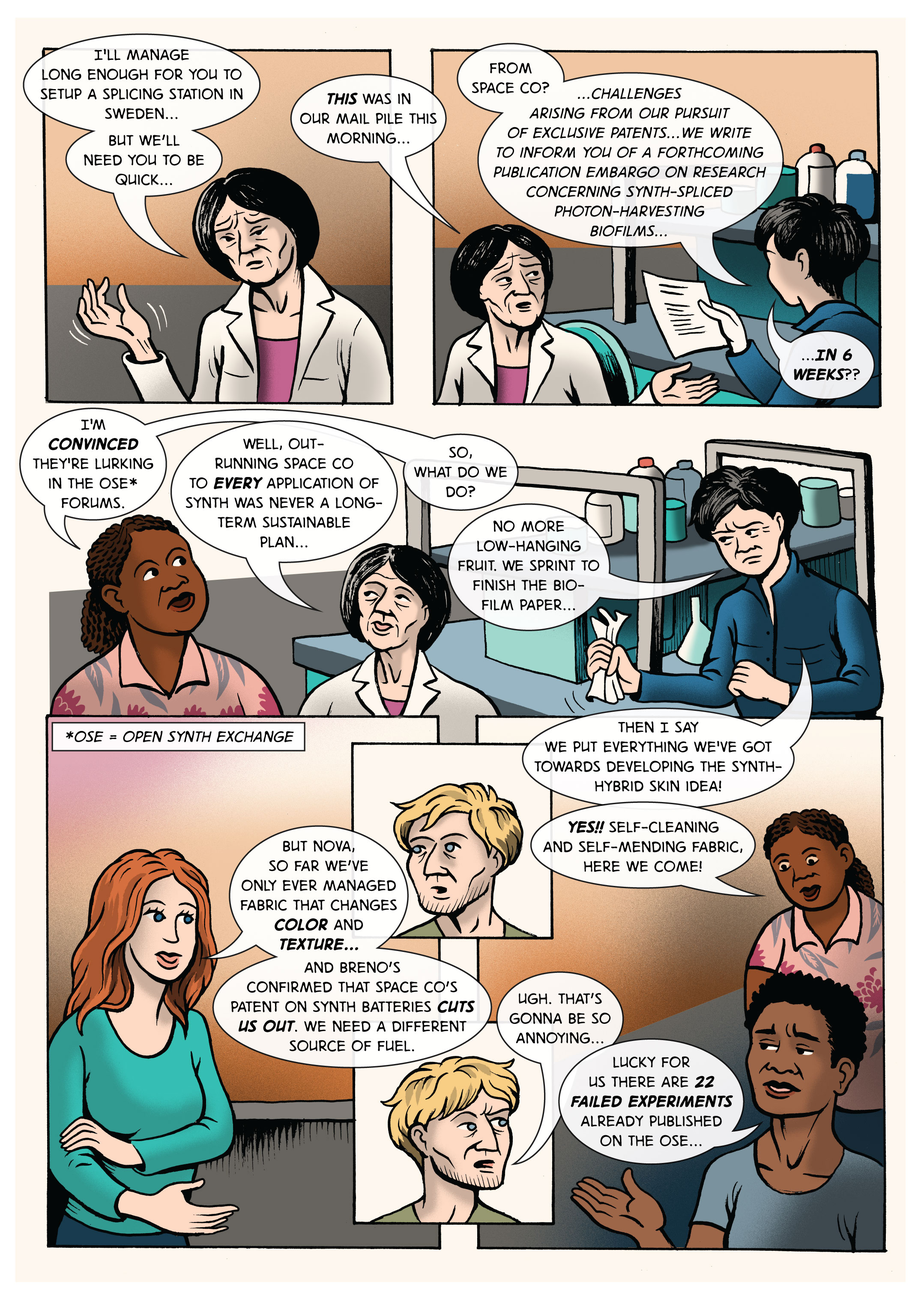
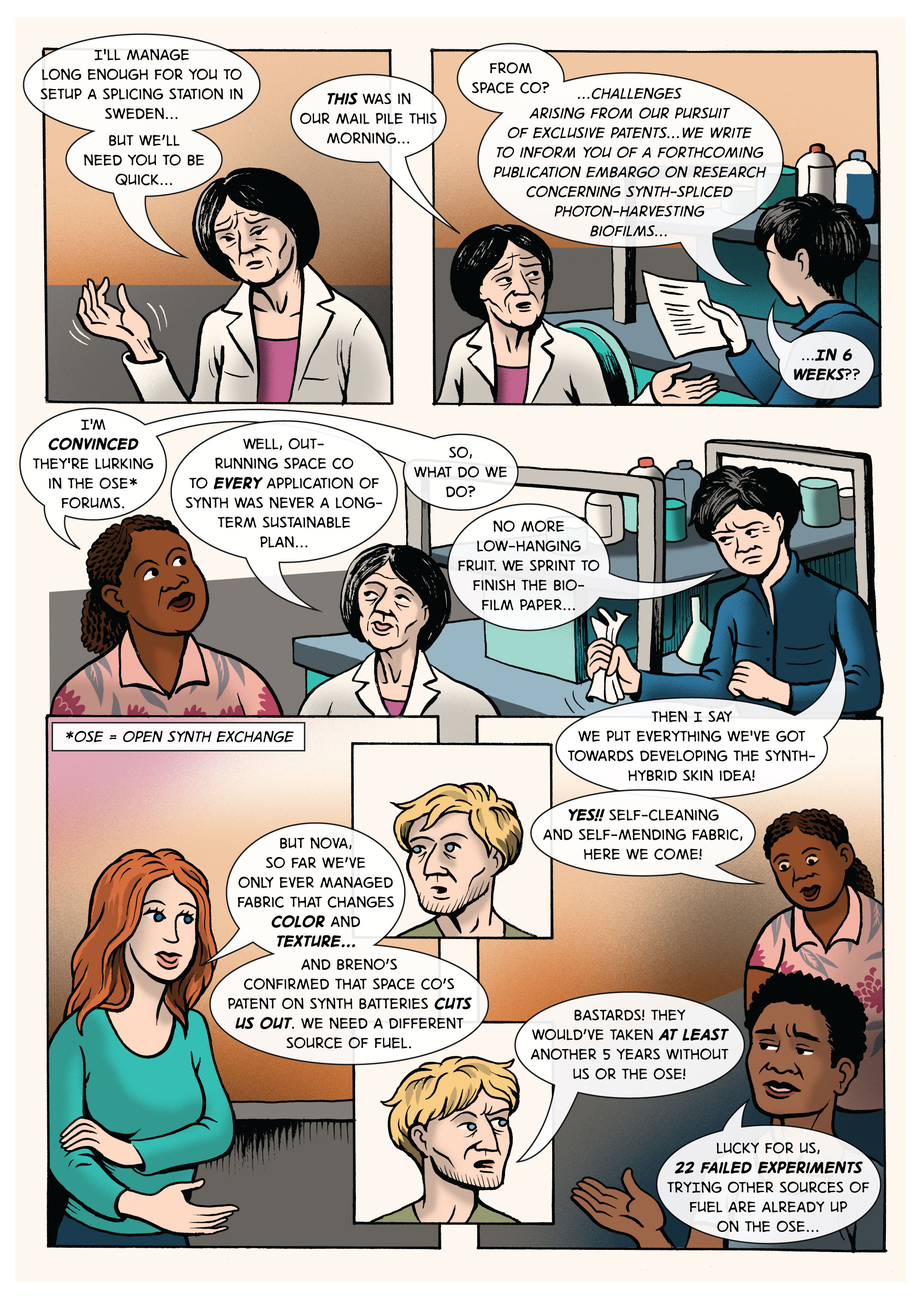
updates to ch1 teaser

Changed region(s): [[0.2181, 0.6192, 0.966, 0.9598], [0.5609, 0.4954, 0.9349, 0.7121]]

diff --git a/_open-lab-notebook/09-the-first-VIRS-ch01-teaser-16.md b/_open-lab-notebook/09-the-first-VIRS-ch01-teaser-16.md
@@ -22,33 +22,33 @@ alt="Chapter 1, page 14" caption="Art and Lettering by Danbee Kim." %}
 
 ## Annotations
 
-**"Information recovered from [magnetic storage tapes](https://www.bloomberg.com/news/articles/2018-10-17/the-future-of-the-cloud-depends-on-magnetic-tape){:target="_blank"} at [Iron Mountain](https://en.wikipedia.org/wiki/Iron_Mountain_(company)){:target="_blank"} Archeological Site 2095-007..."**
-
 ### Major Glial Cell Types
 
-A.k.a. ["neuroglia" or "glial cells"](https://en.wikipedia.org/wiki/Glia){:target="_blank"}, these non-neuronal cells of the nervous system have **four main functions**: 
+A.k.a. ["neuroglia" or "glial cells"](https://en.wikipedia.org/wiki/Glia), these cells of the nervous system have **four main functions**: 
 * surround neurons and hold them in place
 * supply nutrients and oxygen to neurons 
 * electrically insulate neurons from each other
 * destroy germs and remove dead neurons
 
--- [Macroglia](https://en.wikipedia.org/wiki/Glia#Macroglia){:target="_blank"} of the [Peripheral Nervous System (PNS)](https://en.wikipedia.org/wiki/Peripheral_nervous_system){:target="_blank"} --
+-- [Macroglia](https://en.wikipedia.org/wiki/Glia#Macroglia) of the [Peripheral Nervous System (PNS)](https://en.wikipedia.org/wiki/Peripheral_nervous_system) --
 
-[**Schwann cells**](https://en.wikipedia.org/wiki/Schwann_cell){:target="_blank"} provide [myelin sheaths](https://en.wikipedia.org/wiki/Myelin){:target="_blank"} (which make action potentials go faster and farther) to neurons in the PNS, eat germs, and clear cellular debris to help PNS neurons regrow. 
+[**Schwann cells**](https://en.wikipedia.org/wiki/Schwann_cell) provide [myelin sheaths](https://en.wikipedia.org/wiki/Myelin) (which make action potentials go faster and farther) to neurons in the PNS, eat germs, and clear cellular debris to help PNS neurons regrow. 
 
-[**Satellite cells**](https://en.wikipedia.org/wiki/Satellite_glial_cell){:target="_blank"} surround neurons in [sensory](https://en.wikipedia.org/wiki/Dorsal_root_ganglion){:target="_blank"}, [sympathetic](https://en.wikipedia.org/wiki/Sympathetic_ganglion){:target="_blank"}, and [parasympathetic ganglia](https://en.wikipedia.org/wiki/Parasympathetic_ganglion){:target="_blank"}; are interconnected by [gap junctions](https://en.wikipedia.org/wiki/Gap_junction){:target="_blank"}; and are highly sensitive to [inflammation](https://en.wikipedia.org/wiki/Inflammation){:target="_blank"} and pain. 
+[**Satellite cells**](https://en.wikipedia.org/wiki/Satellite_glial_cell) surround neurons in [sensory](https://en.wikipedia.org/wiki/Dorsal_root_ganglion), [sympathetic](https://en.wikipedia.org/wiki/Sympathetic_ganglion), and [parasympathetic ganglia](https://en.wikipedia.org/wiki/Parasympathetic_ganglion); are interconnected by [gap junctions](https://en.wikipedia.org/wiki/Gap_junction); and are highly sensitive to [inflammation](https://en.wikipedia.org/wiki/Inflammation) and pain. 
 
--- Macroglia of the [Central Nervous System (CNS)](https://en.wikipedia.org/wiki/Central_nervous_system){:target="_blank"} -- 
+-- Macroglia of the [Central Nervous System (CNS)](https://en.wikipedia.org/wiki/Central_nervous_system) -- 
 
-[**Oligodendrocytes**](https://en.wikipedia.org/wiki/Oligodendrocyte){:target="_blank"} coat the axons of neurons in the CNS with their cell membranes to form myelin sheaths; a single oligodendrocyte can serve up to 50 axons. 
+[**Astrocytes**](https://en.wikipedia.org/wiki/Astrocyte) (or astroglia) are the most abundant macroglia in the CNS. They remove excess potassium ions (K+) from around neurons; link neurons to a blood supply while helping form the blood-brain barrier; recycle neurotransmitters released during synaptic transmission; and signal to each other using [glutamate](https://en.wikipedia.org/wiki/Glutamate_(neurotransmitter)), [GABA](https://en.wikipedia.org/wiki/Gamma-Aminobutyric_acid), and [adenosine tri-phosphate (ATP, a molecule used for energy by all living cells)](https://en.wikipedia.org/wiki/Adenosine_triphosphate). 
 
-[**Astrocytes**](https://en.wikipedia.org/wiki/Astrocyte){:target="_blank"} (or astroglia) are the most abundant macroglia in the CNS. They remove excess potassium ions (K+) from around neurons; link neurons to a blood supply while helping form the blood-brain barrier; recycle neurotransmitters released during synaptic transmission; and signal to each other using [glutamate](https://en.wikipedia.org/wiki/Glutamate_(neurotransmitter)){:target="_blank"}, [GABA](https://en.wikipedia.org/wiki/Gamma-Aminobutyric_acid){:target="_blank"}, and [adenosine tri-phosphate (ATP, a molecule used for energy by all living cells)](https://en.wikipedia.org/wiki/Adenosine_triphosphate){:target="_blank"}. 
+[**Ependymal cells**](https://en.wikipedia.org/wiki/Ependyma) (or ependymocytes) line the spinal cord and the [ventricular system](https://en.wikipedia.org/wiki/Ventricular_system) of the brain to create the [ependyma](https://en.wikipedia.org/wiki/Ependyma), a part of the [blood-CSF barrier](https://en.wikipedia.org/wiki/Choroid_plexus#Blood%E2%80%93cerebrospinal_fluid_barrier). They are involved in creating, secreting, and circulating [cerebro-spinal fluid (CSF)](https://en.wikipedia.org/wiki/Cerebrospinal_fluid). 
 
-[**Ependymal cells**](https://en.wikipedia.org/wiki/Ependyma){:target="_blank"} (or ependymocytes) line the spinal cord and the [ventricular system](https://en.wikipedia.org/wiki/Ventricular_system){:target="_blank"} of the brain to create the [ependyma](https://en.wikipedia.org/wiki/Ependyma){:target="_blank"}, a part of the [blood-CSF barrier](https://en.wikipedia.org/wiki/Choroid_plexus#Blood%E2%80%93cerebrospinal_fluid_barrier){:target="_blank"}. They are involved in creating, secreting, and circulating [cerebro-spinal fluid (CSF)](https://en.wikipedia.org/wiki/Cerebrospinal_fluid){:target="_blank"}. 
+[**Oligodendrocytes**](https://en.wikipedia.org/wiki/Oligodendrocyte) coat the axons of neurons in the CNS with their cell membranes to form myelin sheaths; a single oligodendrocyte can serve up to 50 axons. 
 
 -- Microglia -- 
 
-[**Microglia**](https://en.wikipedia.org/wiki/Microglia){:target="_blank"} are much smaller than macroglia and can change shape in order to move around the entire nervous system. They multiply when the brain is damaged, and constantly sample their environment in order to direct [immune system](https://en.wikipedia.org/wiki/Immune_system){:target="_blank"} responses to damage or danger in the nervous system. 
+[**Microglia**](https://en.wikipedia.org/wiki/Microglia) are much smaller than macroglia and can change shape in order to move around the entire nervous system. They multiply when the brain is damaged, and constantly sample their environment in order to direct [immune system](https://en.wikipedia.org/wiki/Immune_system) responses to damage or danger in the nervous system. 
+
+### Learn More
 
 To learn more about this graphic novel, please visit [www.danbeekim.org/VIRS](/VIRS){:target="_blank"}
 

diff --git a/_open-lab-notebook/09-the-first-VIRS-ch01-teaser-08.md b/_open-lab-notebook/09-the-first-VIRS-ch01-teaser-08.md
@@ -24,13 +24,13 @@ alt="Chapter 1, page 6" caption="Art by Matteo Farinella, Lettering by Danbee Ki
 
 Majhee, Felix, and other members of Majhee's research group sit or stand in a cluster at one end of their lab benches in an upper floor of the research institute. The wall nearest to them is a floor-to-ceiling window, showing the dusty sky-line of São Paulo. The sun sits in a reddish hazy sky, just past the midday zenith. 
 
-The circle of researchers: **Felix Grael**, a pale but handsome man in his late 20s, raised in Rio de Janeiro by Swedish immigrants who have since returned to Europe, his face lined with fear and sadness, head in hands as his elbows rest on his knees; **Kai Oliveira**, a much older woman of Japanese-Portuguese descent, grey-haired and hook-nosed, stern-faced and sitting stiffly in her chair; **Beatriz Cavalcanti**, a tall woman in her 30s, a Brazilian of Italian descent, mouth set in a grim line even as her hands squeeze Felix's shoulders in a motherly, comforting gesture; **Breno Leite**, a dark, thin man in his early 30s, born and raised in the streets of São Paulo by his young Brazilian single mother, who worked every day of her life before falling ill in order to send her son to university; **Nova Jatobá**, a young graduate student in her mid-20s, descended from indiginous Brazilians from deeper inland, her plump face lined with exhaustion; **Iara Gracie**, another young grad student in her mid-20s, who was born into an [old Brazilian martial arts family](https://en.wikipedia.org/wiki/Gracie_family){:target="_blank"} but chose the life of a scientist instead; **Vec Barbosa**, a portly Brazilian man of West African descent in his 40s, hands resignedly folded over a substantial beer belly, face troubled and sad behind a rather bushy yet neatly-trimmed beard.
+The circle of researchers: **Felix Grael**, a pale but handsome man in his late 20s, raised in Rio de Janeiro by Swedish immigrants who have since returned to Europe, his face lined with fear and sadness, head in hands as his elbows rest on his knees; **Kai Oliveira**, a much older woman of Japanese-Portuguese descent, grey-haired and hook-nosed, stern-faced and sitting stiffly in her chair; **Beatriz Cavalcanti**, a tall woman in her 30s, a Brazilian of Italian descent, mouth set in a grim line even as her hands squeeze Felix's shoulders in a motherly, comforting gesture; **Breno Leite**, a dark, thin man in his early 30s, born and raised in the streets of São Paulo by his young Brazilian single mother, who worked every day of her life before falling ill in order to send her son to university; **Nova Jatobá**, a young graduate student in her mid-20s, descended from indiginous Brazilians from deeper inland, her plump face lined with exhaustion; **Iara Gracie**, another young grad student in her mid-20s, who was born into an [old Brazilian martial arts family](https://en.wikipedia.org/wiki/Gracie_family) but chose the life of a scientist instead; **Vec Barbosa**, a portly Brazilian man of West African descent in his 40s, hands resignedly folded over a substantial beer belly, face troubled and sad behind a rather bushy yet neatly-trimmed beard.
 
 Beatriz: **"So...it's back?"**
 
-Felix, defeated: **"Yes...they think it was the [liver transplant](https://skincancer.ucsf.edu/transplant-patients){:target="_blank"}..."**
+Felix, defeated: **"Yes...they think it was the [liver transplant](https://skincancer.ucsf.edu/transplant-patients)..."**
 
-Beatriz, gently: **"Do you want to go home? The lab can cover your flight..."**
+Beatriz, gently: **"Felxi, do you want to go home? We could cover your flight..."**
 
 Felix: **"Are you sure?"**
 
@@ -42,11 +42,13 @@ Felix: **"Thanks...I know my mom will really appreciate having me at home..."**
 
 Suddenly Felix screws up his face with anger and frustration. 
 
-Felix: **"But...we're so close--"**
+Felix: **"But...Bea, we're so close--"**
 
 Beatriz: **"Hey, family comes first, and that's ok."**
 
 Felix: **"But Kai's hands--"**
+
+### Learn More
 
 To learn more about this graphic novel, please visit [www.danbeekim.org/VIRS](/VIRS){:target="_blank"}
 

diff --git a/_open-lab-notebook/09-the-first-VIRS-ch01-teaser-04.md b/_open-lab-notebook/09-the-first-VIRS-ch01-teaser-04.md
@@ -28,13 +28,13 @@ We see Majhee walking briskly through the crowded streets of São Paulo. Everyon
 
 A lot of the news is about the new space arboretum, but most of the individual bubbles are focused on news about planetside climate disasters: 
 
-**"...[the Colorado River has *dried up completely*](https://www.smithsonianmag.com/science-nature/the-colorado-river-runs-dry-61427169/){:target="_blank"} and many are migrating east to escape the *severe drought*..."**
+**"...[the Colorado River has *dried up completely*](https://www.smithsonianmag.com/science-nature/the-colorado-river-runs-dry-61427169/) and many are migrating east to escape the *severe drought*..."**
 
-**"...aggressive *water-borne disease* has placed [most of northeast India under *quarantine*](https://www.ncbi.nlm.nih.gov/pmc/articles/PMC1151007/){:target="_blank"}"**
+**"...aggressive *water-borne disease* has placed [most of northeast India under *quarantine*](https://www.ncbi.nlm.nih.gov/pmc/articles/PMC1151007/)..."**
 
-**"...[*total evaporation* of the River Niger](https://www.vanguardngr.com/2016/05/river-niger-drying-fg-raises-alarm/){:target="_blank"} has led to *massive lootings* at yet another hydropower station..."**
+**"...[*total evaporation* of the River Niger](https://www.vanguardngr.com/2016/05/river-niger-drying-fg-raises-alarm/) has led to *massive lootings* at yet another hydropower station..."**
 
-**"...[*hundred times* more likely to be diagnosed](http://www.who.int/uv/faq/skincancer/en/index1.html){:target="_blank"} with illnesses caused by *sun radiation* than even just ten years ago..."**
+**"...[*hundred times* more likely to be diagnosed](http://www.who.int/uv/faq/skincancer/en/index1.html) with illnesses caused by *sun radiation* than even just ten years ago..."**
 
 We see Majhee walk past a large research facility, metal and glass architecture dully gleaming in the smoggy light, labeled "Laboratório Nacional de Biociências e Saúde Pública". 
 
@@ -42,13 +42,13 @@ We see Majhee walk past a large research facility, metal and glass architecture 
 
 The front of the research facility is teeming with protesters, who chant "Não sirva aos tiranos em órbita!" and "Educar crianças humanas, não máquinas corporativas!"
 
-*translation: "Don't serve the tyrants in orbit!", "Educate human children, not corporate machines!"*
-
-**"...fifth day of violent demonstrations at the Laboratório Nacional de Biociências e Saúde Pública protesting the public research institution's collaboration with Space Consortium..."**
+**"...fifth day of *violent* demonstrations at the Laboratório Nacional de Biociências e Saúde Pública protesting the public research institution's *collaboration* with Space Consortium..."**
 
 Majhee sneaks into an alleyway to enter the research facility via a back door. 
 
-**"...last week the space exploration conglomerate announced the first ever patent on a device made with synaptic thread technology, commonly known as SynTh..."**
+**"...who recently announced the first ever *patent* on a device made with the *traditionally open source* synaptic thread technology, commonly known as SynTh..."**
+
+### Learn More
 
 To learn more about this graphic novel, please visit [www.danbeekim.org/VIRS](/VIRS){:target="_blank"}
 

diff --git a/_open-lab-notebook/09-the-first-VIRS-ch01-teaser-02.md b/_open-lab-notebook/09-the-first-VIRS-ch01-teaser-02.md
@@ -23,44 +23,37 @@ alt="Chapter 1 Cast" caption="Art by Matteo Farinella, Lettering by Danbee Kim."
 ## Annotations
 
 **Majhee Suh**:  
-[Organometallic Chemist](https://en.wikipedia.org/wiki/Organometallic_chemistry){:target="_blank"}  
-PhD thesis: "Cultivating [Electrophoretic](https://en.wikipedia.org/wiki/Electrophoresis){:target="_blank"} [Mycelium](https://en.wikipedia.org/wiki/Mycelium){:target="_blank"} [Yeast](https://en.wikipedia.org/wiki/Yeast){:target="_blank"} to fabricate living organic semiconductors"
+[Organometallic Chemist](https://en.wikipedia.org/wiki/Organometallic_chemistry)  
+PhD thesis: "Cultivating [Electrophoretic](https://en.wikipedia.org/wiki/Electrophoresis) [Mycelium](https://en.wikipedia.org/wiki/Mycelium) [Yeast](https://en.wikipedia.org/wiki/Yeast) to fabricate living organic semiconductors"
 
 **Iúna Morei**:  
-CEO of Morei Textiles  
-Codename "Mama Bird"  
+CEO of Morei Textiles, Codename "Mama Bird"  
 
 **Kai Oliveira**:  
-Bio-materials Scientist  
-PhD thesis: "Methods for genetically modifying bacterial colonies to build [Bio-Silicate](https://en.wikipedia.org/wiki/Silicate){:target="_blank"} interfaces"  
+Bio-materials Scientist, ramen connoisseur, and operatic metal enthusiast
 
 **Vec Barbosa**:  
 Animal technician, Veterinarian, and SCUBA diving instructor  
 
 **Beatriz Cavalcanti**:  
-Laboratory Manager  
-PhD thesis: "Ecophysiological responses to [ocean acidification](https://en.wikipedia.org/wiki/Ocean_acidification){:target="_blank"} in coastal ecosystems"  
+Laboratory Manager, Marine Ecologist, and avid seabird watcher
 
 **Nova Jatobá**:  
-Research Assistant  
-B.Sc. in Nutrition and Information Management  
+Research Assistant, B.Sc. in Nutrition, and cryptocurrency hobbyist
 
 **Marcia Netto**:  
 President and Director of Laboratório Nacional de Biociências e Saúde Pública  
 
 **Iara Gracie**:  
-Research Assistant  
-B.Sc. in Animal Husbandry  
-Red/White belt in [Brazilian Jiu-Jitsu](https://en.wikipedia.org/wiki/Brazilian_jiu-jitsu){:target="_blank"}  
+Research Assistant, B.Sc. in Animal Husbandry, and red/white belt in [Brazilian Jiu-Jitsu](https://en.wikipedia.org/wiki/Brazilian_jiu-jitsu)  
 
 **Felix Grael**:  
-Research Technician  
-B.Sc. in Biophysics  
-Home-brewed beer enthusiast  
+Research Technician, B.Sc. in Biophysics, and home-brewed beer enthusiast  
 
 **Breno Leite**:  
-Physiologist and Geneticist  
-PhD thesis: "Human [transcriptomic](https://en.wikipedia.org/wiki/Transcriptome){:target="_blank"} responses to daily movement practice"
+Developmental Physiologist, Geneticist, and capoeirista
+
+### Learn More
 
 To learn more about this graphic novel, please visit [www.danbeekim.org/VIRS](/VIRS){:target="_blank"}
 

diff --git a/_open-lab-notebook/09-the-first-VIRS-ch01-teaser-05.md b/_open-lab-notebook/09-the-first-VIRS-ch01-teaser-05.md
@@ -24,13 +24,15 @@ alt="Chapter 1, page 3" caption="Art by Matteo Farinella, Lettering by Danbee Ki
 
 Inside the research institute, we see a receptionist sitting behind a sealed glass window. Next to him is a decontamination chamber that all must pass thru in order to enter the research facility. 
 
-**"...Space Co's actions have been publicly condemned by many researchers affiliated with the LNBSP, including Dr. Majhee Suh, who was the first to cultivate stable thread-worms capable of spinning SynTh..."**
+**"...Space Consortium's actions have been publicly condemned by many researchers affiliated with the LNBSP..."**
 
 *LNBSP = Laboratório Nacional de Biociências e Saúde Pública*
 
+**"...including Dr. Majhee Suh, who was the first to cultivate stable thread-worms capable of spinning SynTh..."**
+
 Majhee: **"Mornin', Paulo!"**
 
-Paulo: **"Majhee! How's your head??"**
+Paulo: **"Majhee! How's your head?"**
 
 Majhee takes off her hood and googles - she is pretty and youthful for her 37 years, if it weren't for the many lines of worry and grim determination on her face. She shakes out her hair, cropped short in a bowl pixie cut. Clearly having many troubling thoughts, she begins taking off her SynTh hazmat suit.  
 
@@ -38,17 +40,21 @@ Majhee: **"Not great, but I'll live..."**
 
 Paulo: **"Did you go to the hospital?"**
 
-Majhee: **"No, I can't afford it right now."**
+Majhee: **"No, it would have taken all night to see a doctor..."**
 
-Paulo: **"Doesn't the LNBSP give you health insurance?"**
+Paulo: **"Doesn't the LNBSP give you private health care?"**
 
-Majhee: **"Yes, but I'm not covered for injuries that occur 'off the work site'...and technically, I was outside the front gates when the oxygen tank hit me."**
+Majhee: **"Yes, but I'm not covered for injuries that occur off the work site...and technically, I was outside the front gates when the oxygen tank hit me."**
 
-Paulo: **"You're joking...what kinda messed up thinkin' is that??"**
+Paulo: **"*Seriously??* The SAMU should've just reported it as a worksite injury!"**
+
+*SAMU = Serviço de Atendimento Móvel de Urgência (Mobile Emergency Attendance Service)*
 
 Majhee removes her boots and steps into the decontamination chamber.
 
-Majhee: **"Yeah, well...everyone's hungry...can't think when you're hungry."**
+Majhee: **"Well...everyone's hungry...can't think when you're hungry."**
+
+### Learn More
 
 To learn more about this graphic novel, please visit [www.danbeekim.org/VIRS](/VIRS){:target="_blank"}
 

diff --git a/_open-lab-notebook/09-the-first-VIRS-ch01-teaser-09.md b/_open-lab-notebook/09-the-first-VIRS-ch01-teaser-09.md
@@ -24,13 +24,13 @@ alt="Chapter 1, page 7" caption="Art by Matteo Farinella, Lettering by Danbee Ki
 
 Kai looks down at her lap with hard eyes.
 
-Kai: **"I'll manage long enough for you to set up a splicing station in Sweden...but you'll have to make it quick..."**
+Kai: **"I'll manage long enough for you to set up a splicing station in Sweden...but we'll need you to be quick..."**
 
 Kai hands Majhee a letter covered in legal jargon. 
 
 Kai: **"*This* was in our mail pile this morning..."**
 
-Majhee: **"From Space Co? '...challenges arising from our pursuit of exclusive patents ... we write to inform you of a forthcoming publication embargo on research concerning SynTh-spliced [photon-harvesting biofilms](https://cen.acs.org/energy/solar-power/Organic-solar-cell-smashes-performance/96/web/2018/08){:target="_blank"}...*IN 6 WEEKS*'??"**
+Majhee: **"From Space Co? '...challenges arising from our pursuit of exclusive patents ... we write to inform you of a forthcoming publication embargo on research concerning SynTh-spliced [photon-harvesting biofilms](https://cen.acs.org/energy/solar-power/Organic-solar-cell-smashes-performance/96/web/2018/08)...*IN 6 WEEKS*'??"**
 
 Nova: **"I'm *convinced* they're lurking in the OSE forums."**
 
@@ -42,13 +42,15 @@ Nova: **"So what do we do?"**
 
 Majhee, angrily: **"No more low-hanging fruit. We sprint to finish the biofilm paper...then I say we put everything we've got towards developing the SynTh-hybrid skin idea!"**
 
-Nova: **"Yes. The past sprints were training...now, we run the marathon!"**
+Nova: **"*Yes!!* Self-cleaning and self-mending fabric, here we come!"**
 
-Iara: **"You talk like we just need to crunch some numbers! We still have *no idea* how to spin the SynTh into a structure that can emerge into a superorganism..."**
+Iara: **"But Nova, so far we've only ever managed fabric that changes color and texture...and Breno's confirmed that Space Co's patent on SynTh batteries *cuts us out*. We need a different source of fuel."**
 
-Felix: **"And the *ethical implications*..."**
+Felix: **"Bastards! They would've taken *at least* another 5 years without us or the OSE!"**
 
-Breno: **"That hasn't stopped the *22 failed experiments* already published on the OSE..."**
+Breno: **"Lucky for us, *22 failed experiments* trying other sources of fuel are already up on the OSE..."**
+
+### Learn More
 
 To learn more about this graphic novel, please visit [www.danbeekim.org/VIRS](/VIRS){:target="_blank"}
 

diff --git a/_open-lab-notebook/09-the-first-VIRS-ch01-teaser-01.md b/_open-lab-notebook/09-the-first-VIRS-ch01-teaser-01.md
@@ -24,9 +24,11 @@ title page" caption="Art by Xiao Xiao, Lettering by Danbee Kim." %}
 
 **"Loading Universal Record..."**
 
-**"Finished loading...'The Space Consortium Fights World Hunger'; [Classification: *Unclassified*](https://en.wikipedia.org/wiki/Classified_information#Typical_classification_levels){:target="_blank"}."**
+**"Finished loading...'The Space Consortium Fights World Hunger'; [Classification: *Unclassified*](https://en.wikipedia.org/wiki/Classified_information#Typical_classification_levels)."**
 
-**"In 2054, Space Consortium presented the United Nations with a proposal to collaborate with planetside farms and biodiversity sanctuaries (predecessors to the modern-day Green Havens) in order to conduct research into plants useful for space travel and permaculture in low gravity. In return for funding and logistical support from the UN, Space Consortium offered to use this research to help fight the global food shortage with food grown in space, and pledged half of the carrying capacity of its recently completed space elevator project, the Space Ferries, to guarantee reliable transport of resources back and forth between orbiting farms and planetside. Thus, Space Consortium played a major role in improving the quality of life on Earth before [The Global Water Crisis](https://www.bbc.co.uk/news/uk-47620228){:target="_blank"}..."**
+**"In 2054, Space Consortium began collaborating with planetside farms to advance research on space-tolerance in plants and insects. Space Consortium offered to use this research to help fight Earth's food shortage, and pledged half of the carrying capacity of its recently completed space elevator project, the Space Ferries, to guarantee reliable transport of resources between Earth and orbiting farms. Thus, Space Consortium played a major role in improving the quality of life on Earth before [The Global Water Crisis](https://www.bbc.co.uk/news/uk-47620228)..."**
+
+### Learn More
 
 To learn more about this graphic novel, please visit [www.danbeekim.org/VIRS](/VIRS){:target="_blank"}
 

diff --git a/_open-lab-notebook/09-the-first-VIRS-ch01-teaser-07.md b/_open-lab-notebook/09-the-first-VIRS-ch01-teaser-07.md
@@ -22,9 +22,7 @@ alt="Chapter 1, page 5" caption="Art by Matteo Farinella, Lettering by Danbee Ki
 
 ## Annotations
 
-Majhee angrily turns off the giant bacteria of light with an impatient gesture as she turns to Marcia, furious.
-
-Majhee: **"We work at the *biggest* research center in Brazil, and have *way* more privilege than most folks on the street, so if *we* can't stand up to unethical behaviour, who can??"**
+Majhee: **"Marcia, we work at the *biggest* research center in Brazil. If *we* can't stand up to unethical behaviour, who can??"**
 
 Marcia: **"Majhee, if Space Co can't work with us, they'll just go to some other institute. We don't *actually* have any leverage."**
 
@@ -32,17 +30,17 @@ Majhee looks away miserably.
 
 Majhee: **"Well...if the sponsors want me out, *fine*. I'm not taking back *anything* I've said against Space Co."**
 
-Marcia: **"To be honest, they can't seem to decide whether to hate you or love you. You're the youngest scientist in the world with *two* UN grants..."**
+Marcia: **"To be honest, they can't seem to decide whether to hate you or love you. You're the youngest scientist in the world with *two* U.N. grants..."**
 
 Majhee, dryly: **"Are you saying I have redeeming qualities in the eyes of our prestige- and money-hungry overlords?"**
 
-Marcia, hissing: **"Majhee! The walls...ears--!"**
-
 Felix, a scientist in Majhee's lab, appears at the doorway.
 
-Felix: **"Hi, sorry to interrupt...can we get Majhee please? Lab meeting was supposed to start an hour ago..."**
+Felix: **"Hi, sorry to interrupt...can we get Majhee please? Lab meeting was supposed to start an hour ago."**
 
 Majhee: **"I know, I'm sorry, I'm coming. Marcia, I'll give you a call later."**
+
+### Learn More
 
 To learn more about this graphic novel, please visit [www.danbeekim.org/VIRS](/VIRS){:target="_blank"}
 

diff --git a/_open-lab-notebook/09-the-first-VIRS-ch01-teaser-03.md b/_open-lab-notebook/09-the-first-VIRS-ch01-teaser-03.md
@@ -28,19 +28,21 @@ alt="Chapter 1, page 1" caption="Art by Matteo Farinella, Lettering by Danbee Ki
 
 **"It was a day of hope and wonder."** 
 
-**"The Space Consortium had just completed their third space farm, and the news feeds were drowning in videos of the glamorous ribbon-cutting event..."**
+**"Space Consortium had just completed their third space farm, and the news feeds were drowning in videos of the glamorous ribbon-cutting event..."**
 
 We see beautiful, important people draped in gorgeously fashionable and unspeakably expensive formal attire, made with synapic thread fabric programmed to fluidly change colours in response to the lights, the music, and their wearers' moods.
 
 **"...of the Orbiter home pods that synchronised their velocities with the new arboretum..."**
 
-In a viewing port of the Arboretum, we see a huge mass of gathered Orbiter home pods, floating in synchronised orbit next to the Arboretum.
+In the viewing port of the Arboretum, we see a huge mass of gathered Orbiter home pods, floating in synchronised orbit next to the Arboretum.
 
-**"...of delicate, mouth-watering hors d'oeuvres made from succulent crops grown at the two older space farms, in carefully filtered water and pristine soil..."**
+**"...and of the tiny, mouth-watering hors d'oeuvres made from succulent crops grown at the two older space farms, in carefully filtered water and pristine soil..."**
 
 **"...for the world was becoming too dirty, too extreme in its weather, to support industrial planetside farming..."**
 
 **"...and many people, on this historic day, were starving..."**
+
+### Learn More
 
 To learn more about this graphic novel, please visit [www.danbeekim.org/VIRS](/VIRS){:target="_blank"}
 

diff --git a/_open-lab-notebook/09-the-first-VIRS-ch01-teaser-10.md b/_open-lab-notebook/09-the-first-VIRS-ch01-teaser-10.md
@@ -24,25 +24,25 @@ alt="Chapter 1, page 8" caption="Art by Matteo Farinella, Lettering by Danbee Ki
 
 Majhee: **"Kai, Vec, Bea? What do you think?"**
 
-Kai: **"I say we start straight away! Felix and I will review the latest thread-worm recipe together-- tonight!"**
+Kai: **"Let's punch these corporate windbags in the teeth! I'll go start the kettle...gonna need *lots* of tea and ramen for this..."**
 
-Felix looks dazed already. 
-
-Vec: **"I'll help Nova update the OSE's [garlic protocols](https://en.wikipedia.org/wiki/Garlic_routing){:target="_blank"}"**
+Vec: **"I'll help Nova kick Space Co out of the OSE forums."**
 
 Beatriz: **"I'll get Felix his flight."**
 
-Iara: **"Breno and I will finish the [unit tests](https://en.wikipedia.org/wiki/Unit_testing){:target="_blank"}."**
+Iara: **"Breno and I can start reading the failed experiments. Majhee, wanna join us?"**
 
 Majhee quirks an eyebrow.
 
-Majhee: **"You're all amazing. Thank you for massively improving my terrible week."**
+Majhee: **"Sound great, Iara. Everyone...you're all *amazing*. Thank you for *massively* improving my terrible week."**
 
 We see now the protesters outside, their desperate, hungry faces. They hold signs and wave flags with slogans like "Não sirva aos tiranos em órbita!", "Educar crianças humanas, não máquinas corporativas!", and "Alimentar humanos não foguetes!" 
 
 *translation: "Do not serve tyrants in orbit!", "Educate human children, not coporate machines!", "Feed humans not rockets!"*
 
 Majhee: **"Now, 22 failures...that's quite a lot of information..."**
+
+### Learn More
 
 To learn more about this graphic novel, please visit [www.danbeekim.org/VIRS](/VIRS){:target="_blank"}
 

diff --git a/_open-lab-notebook/09-the-first-VIRS-ch01-teaser-13.md b/_open-lab-notebook/09-the-first-VIRS-ch01-teaser-13.md
@@ -26,15 +26,17 @@ Dr. Kauffmann: **"They're prepping for a huge wave of refugees."**
 
 Iúna: **"Really? From where?"** 
 
-Dr. Kauffmann: **"Los Angelos. A police raid last night turned into a fire that's spread halfway up the coast of California. It's so big it's blowing over the mountains into Arizona..."**
+Dr. Kauffmann: **"Los Angeles. A police raid last night turned into a fire that's spread halfway up the coast of California. It's so big it's blowing over the mountains into Arizona..."**
 
-Dr. Kauffmann: **"Apparently the targets panicked and tried to destroy the evidence...and the suburbs are just *filled* with [plastic furniture, which are basically *solid* petroleum](https://youtu.be/aDNPhq5ggoE){:target="_blank"}, and it all just hit a flash point...I'm sorry...do you know anyone over there?"**
+Dr. Kauffmann: **"Apparently the targets panicked and tried to destroy the evidence...and the suburbs are just *filled* with [plastic furniture, which are basically *solid* petroleum](https://youtu.be/aDNPhq5ggoE), and it all just hit a flash point...I'm sorry...do you know anyone over there?"**
 
 Iúna: **"Yes, I...I'm sorry, I need to make a call..."**
 
 Dr. Kauffmann: **"Of course. We'll see ourselves out."**
 
 Under this dialogue we see close-up views of the baby strapped to Iúna's front. The child is a little less than one year old. The strapping is an intricately folded piece of SynTh cloth that can amplify the baby's heartrate, breathing, and digestive sounds. 
+
+### Learn More
 
 To learn more about this graphic novel, please visit [www.danbeekim.org/VIRS](/VIRS){:target="_blank"}
 
